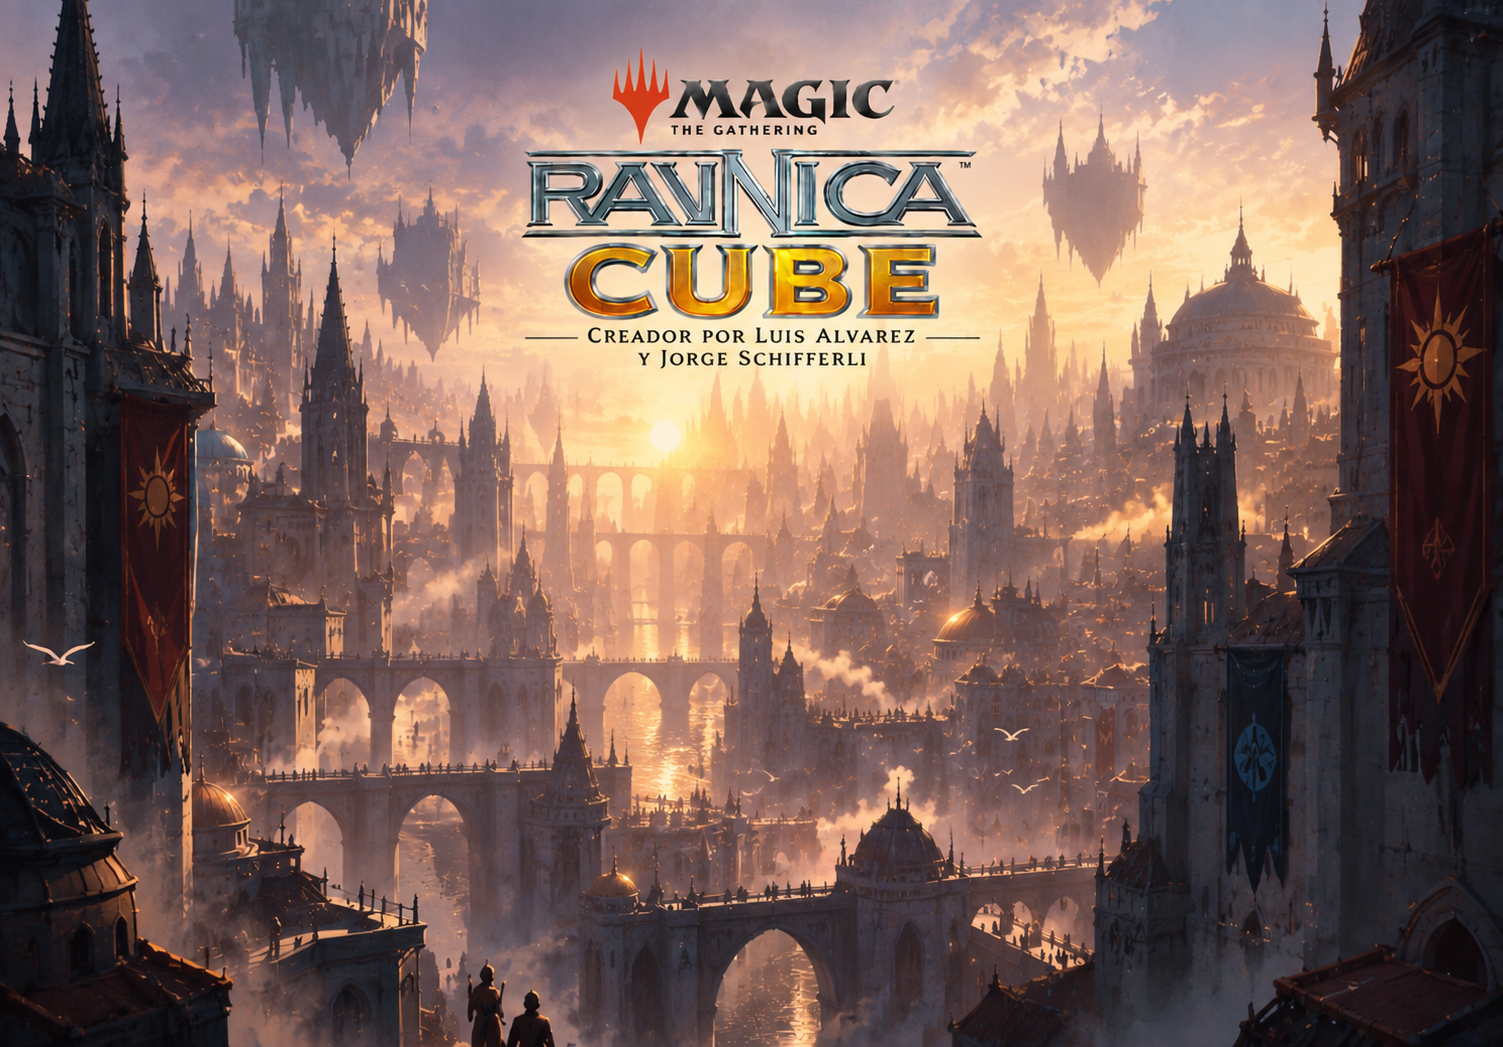
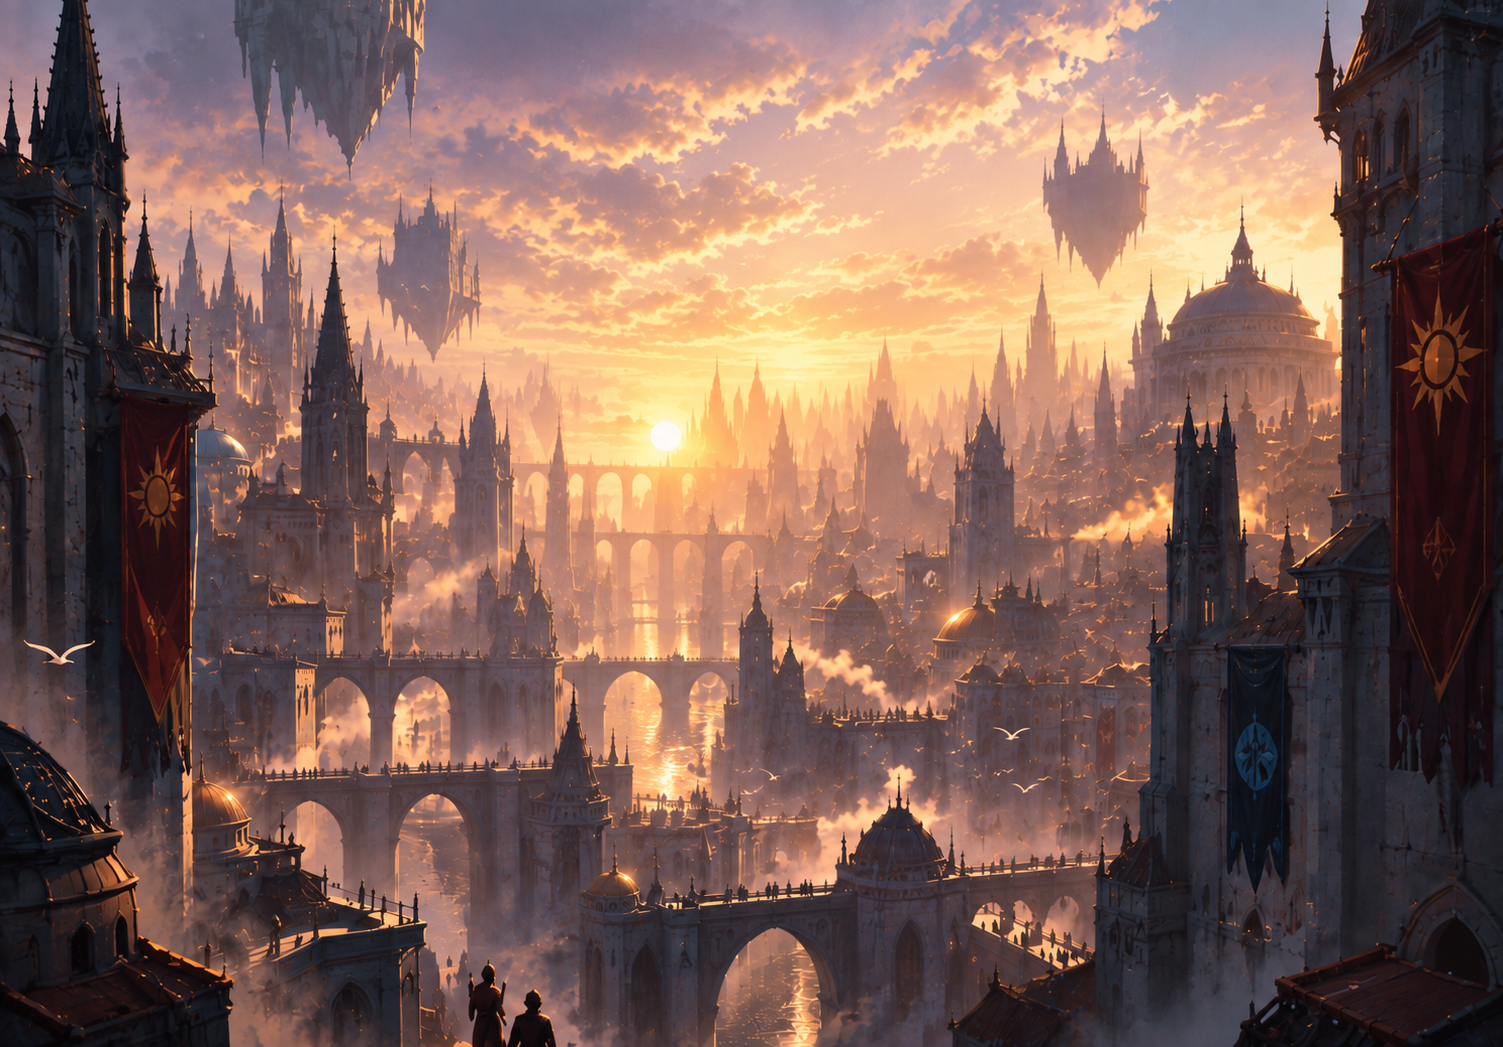
chore: apply latest user local fixes

diff --git a/client/src/index.css b/client/src/index.css
@@ -85,7 +85,12 @@ button { -webkit-tap-highlight-color: transparent; }
 .setup-connection { position:absolute; z-index:2; top:clamp(18px,3vw,34px); right:clamp(18px,3vw,34px); width:8px; height:8px; border-radius:999px; }
 .setup-connection.is-online { background:var(--cyan); box-shadow:0 0 14px rgba(131,217,210,.9); }
 .setup-connection.is-offline { background:var(--danger); box-shadow:0 0 14px rgba(255,118,109,.6); }
-.setup-layout { width:min(610px,100%); margin:0 auto; padding-top:clamp(330px,42vh,470px); }
+.setup-layout { width:min(640px,100%); margin:0 auto; padding-top:clamp(18px,3.5vh,38px); }
+.setup-title-art { width:min(620px,96vw); margin:0 auto clamp(12px,2.5vh,24px); display:grid; justify-items:center; gap:clamp(2px,1vh,9px); pointer-events:none; }
+.setup-magic-mark { width:min(320px,60vw); display:grid; place-items:center; filter:drop-shadow(0 10px 18px rgba(0,0,0,.36)); }
+.setup-magic-logo { display:block; width:100%; height:auto; mix-blend-mode:screen; }
+.setup-ravnica-mark { width:min(620px,96vw); aspect-ratio:1565 / 670; overflow:hidden; display:grid; place-items:center; mix-blend-mode:multiply; }
+.setup-ravnica-logo { display:block; width:100%; height:auto; transform:translateY(-33.8%); filter:drop-shadow(0 14px 20px rgba(0,0,0,.4)); }
 .setup-panel { min-width:0; }
 .deck-builder { height: 100dvh; width: min(1600px,100%); margin: 0 auto; padding: clamp(12px,2vw,28px); display: grid; grid-template-rows: auto minmax(0,1fr); gap: 12px; overflow: hidden; }
 .deck-toolbar { display: flex; align-items: center; justify-content: space-between; gap: 16px; }
@@ -112,6 +117,14 @@ button { -webkit-tap-highlight-color: transparent; }
 .land-summary-item b { overflow:hidden; font-size:12px; font-weight:650; text-overflow:ellipsis; white-space:nowrap; }
 .land-summary-item small { color:var(--muted); font-size:9px; letter-spacing:.08em; }
 .land-summary-item > strong { flex:0 0 auto; color:var(--gold-soft); font-size:16px; }
+.deck-tokens { margin-top:24px; padding-top:16px; border-top:1px solid var(--line); }
+.deck-tokens-heading { display:flex; align-items:center; justify-content:space-between; gap:12px; margin-bottom:10px; }
+.deck-tokens-heading h3 { margin:0; color:var(--paper); font-size:13px; font-weight:650; }
+.deck-tokens-heading strong { color:var(--cyan); font-size:13px; }
+.deck-token-grid { display:grid; grid-template-columns:repeat(2,minmax(0,1fr)); align-items:start; gap:14px 8px; }
+.deck-token-card { min-width:0; display:grid; justify-items:center; gap:7px; }
+.deck-token-card > div { width:100%; cursor:zoom-in; }
+.deck-token-card > span { width:100%; overflow:hidden; color:var(--muted); font-size:11px; text-align:center; text-overflow:ellipsis; white-space:nowrap; }
 .swap-conflict-shell { position: fixed; inset: 0; z-index: 60; display: grid; place-items: center; padding: clamp(10px,2vw,24px); background: rgba(3,5,4,.8); backdrop-filter: blur(18px) saturate(112%); }
 .swap-conflict-panel { position: relative; isolation: isolate; width: min(1080px,100%); max-height: calc(100dvh - 20px); display: grid; grid-template-rows: auto auto minmax(0,1fr) auto; overflow: hidden; border: 1px solid rgba(216,183,112,.24); border-radius: 22px; background: linear-gradient(145deg,rgba(15,21,18,.98),rgba(7,10,8,.98)); box-shadow: 0 36px 110px rgba(0,0,0,.62), inset 0 1px 0 rgba(255,255,255,.04); }
 .swap-conflict-panel::before { content:""; position:absolute; z-index:-1; inset:0; pointer-events:none; background: radial-gradient(circle at 10% 0%,rgba(216,183,112,.1),transparent 32%),radial-gradient(circle at 100% 30%,rgba(131,217,210,.06),transparent 34%); }
@@ -191,7 +204,10 @@ button { -webkit-tap-highlight-color: transparent; }
 @keyframes grain-step { 0%,100%{transform:translate(0,0)} 20%{transform:translate(-2%,1%)} 40%{transform:translate(1%,-2%)} 60%{transform:translate(2%,2%)} 80%{transform:translate(-1%,-1%)} }
 @media (max-width: 900px) {
   :root { --plaza-card-height:clamp(96px,14.2vh,126px); --golem-card-height:clamp(122px,18vh,160px); --plaza-stack-peek:clamp(26px,3.8vh,34px); }
-  .setup-layout { width:min(610px,100%); padding-top:clamp(300px,40vh,360px); }
+  .setup-layout { width:min(640px,100%); padding-top:clamp(14px,2.5vh,28px); }
+  .setup-title-art { width:min(560px,94vw); margin-bottom:clamp(10px,2vh,18px); }
+  .setup-magic-mark { width:min(290px,58vw); }
+  .setup-ravnica-mark { width:min(560px,94vw); }
   .draft-shell, .draft-board { min-height: 540px; }
   .plaza-table { grid-template-columns:1fr auto auto 1fr; align-items:start; gap:10px 26px; }
   .plaza-guilds { grid-column: 1/-1; grid-row: 1; }
@@ -204,7 +220,10 @@ button { -webkit-tap-highlight-color: transparent; }
 @media (max-width: 640px) {
   :root { --plaza-card-height:94px; --golem-card-height:122px; --plaza-stack-peek:27px; }
   .setup-screen { padding:18px 14px; }
-  .setup-layout { padding-top:clamp(286px,38vh,330px); }
+  .setup-layout { padding-top:10px; }
+  .setup-title-art { width:100%; margin-bottom:12px; gap:2px; }
+  .setup-magic-mark { width:min(250px,68vw); }
+  .setup-ravnica-mark { width:min(500px,100%); }
   .draft-shell, .draft-board { height: 100dvh; min-height: 0; }
   .draft-board { overflow: hidden !important; }
   .plaza-table { grid-template-columns:1fr auto auto 1fr; gap:7px 18px; }

diff --git a/client/src/utils/ravnicaTokens.js b/client/src/utils/ravnicaTokens.js
@@ -1,0 +1,87 @@
+export const RAVNICA_TOKENS = [
+  {
+    id: 'trvr-1', name: 'Bird', set: 'trvr', collector_number: '1',
+    type_line: 'Token Creature — Bird', oracle_text: 'Flying', power: '1', toughness: '1',
+    image_url: 'https://cards.scryfall.io/normal/front/f/b/fb446f25-40e4-4cd6-968c-8e22fe799203.jpg?1783913158',
+    requiredBy: ['Eyes in the Skies', 'Battle Screech']
+  },
+  {
+    id: 'trvr-5', name: 'Bird Illusion', set: 'trvr', collector_number: '5',
+    type_line: 'Token Creature — Bird Illusion', oracle_text: 'Flying', power: '1', toughness: '1',
+    image_url: 'https://cards.scryfall.io/normal/front/1/6/16bc1cfe-c2b2-416f-9691-94106cfbf98c.jpg?1783913157',
+    requiredBy: ['Murmuring Mystic']
+  },
+  {
+    id: 'trvr-10', name: 'Centaur', set: 'trvr', collector_number: '10',
+    type_line: 'Token Creature — Centaur', oracle_text: '', power: '3', toughness: '3',
+    image_url: 'https://cards.scryfall.io/normal/front/5/f/5f657b65-67fc-4b7d-bc9e-840190f69362.jpg?1783913155',
+    requiredBy: ['Call of the Conclave']
+  },
+  {
+    id: 'trvr-7', name: 'Dragon', set: 'trvr', collector_number: '7',
+    type_line: 'Token Creature — Dragon', oracle_text: 'Flying', power: '6', toughness: '6',
+    image_url: 'https://cards.scryfall.io/normal/front/a/f/af8209b4-f9db-4fff-b379-86f19669a82f.jpg?1783913156',
+    requiredBy: ['Utvara Hellkite']
+  },
+  {
+    id: 'trvr-15', name: 'Elf Knight', set: 'trvr', collector_number: '15',
+    type_line: 'Token Creature — Elf Knight', oracle_text: 'Vigilance', power: '2', toughness: '2',
+    image_url: 'https://cards.scryfall.io/normal/front/2/0/204b3adf-e76b-4ce9-b84d-b4e65b7054d4.jpg?1783913151',
+    requiredBy: ['Sprouting Renewal', 'Conclave Cavalier']
+  },
+  {
+    id: 'trvr-8', name: 'Goblin', set: 'trvr', collector_number: '8',
+    type_line: 'Token Creature — Goblin', oracle_text: '', power: '1', toughness: '1',
+    image_url: 'https://cards.scryfall.io/normal/front/5/9/59a207c7-0605-4c8d-a0fa-588bf8d8ada8.jpg?1783913155',
+    requiredBy: ['Legion Warboss', 'Krenko, Mob Boss']
+  },
+  {
+    id: 'trvr-9', name: 'Goblin', set: 'trvr', collector_number: '9',
+    type_line: 'Token Creature — Goblin', oracle_text: 'Haste', power: '2', toughness: '1',
+    image_url: 'https://cards.scryfall.io/normal/front/7/9/79707ef3-9ac8-4774-b34b-f227546ff4bd.jpg?1783913156',
+    requiredBy: ['Rakdos Guildmage']
+  },
+  {
+    id: 'tgrn-5', name: 'Insect', set: 'tgrn', collector_number: '5',
+    type_line: 'Token Creature — Insect', oracle_text: '', power: '1', toughness: '1',
+    image_url: 'https://cards.scryfall.io/normal/front/0/4/0436e71b-c1f9-4ca8-a29c-775da858a0cd.jpg?1783934061',
+    requiredBy: ['Izoni, Thousand-Eyed']
+  },
+  {
+    id: 'trvr-12', name: 'Saproling', set: 'trvr', collector_number: '12',
+    type_line: 'Token Creature — Saproling', oracle_text: '', power: '1', toughness: '1',
+    image_url: 'https://cards.scryfall.io/normal/front/0/b/0bf3d41e-cd0a-46bd-8b89-8855906ea6b5.jpg?1783913153',
+    requiredBy: ['Fists of Ironwood', 'Selesnya Evangel', 'Selesnya Guildmage', 'Vitu-Ghazi, the City-Tree']
+  },
+  {
+    id: 'tgrn-2', name: 'Soldier', set: 'tgrn', collector_number: '2',
+    type_line: 'Token Creature — Soldier', oracle_text: 'Lifelink', power: '1', toughness: '1',
+    image_url: 'https://cards.scryfall.io/normal/front/4/5/45907b16-af17-4237-ab38-9d7537fd30e8.jpg?1783934064',
+    requiredBy: ['March of the Multitudes']
+  },
+  {
+    id: 'trna-10', name: 'Spirit', set: 'trna', collector_number: '10',
+    type_line: 'Token Creature — Spirit', oracle_text: 'Flying', power: '1', toughness: '1',
+    image_url: 'https://cards.scryfall.io/normal/front/4/5/45b3bdd7-b093-4bfd-8a9a-965e72bfefb3.jpg?1783933602',
+    requiredBy: ['Ministrant of Obligation', 'Orzhov Enforcer', 'Seraph of the Scales']
+  },
+  {
+    id: 'trvr-4', name: 'Spirit', set: 'trvr', collector_number: '4',
+    type_line: 'Token Creature — Spirit', oracle_text: 'Flying', power: '1', toughness: '1',
+    image_url: 'https://cards.scryfall.io/normal/front/0/8/08c8ab9d-50c7-427d-a2ab-eebaa42842a3.jpg?1783913157',
+    requiredBy: ['Teysa, Orzhov Scion']
+  },
+  {
+    id: 'trvr-19', name: 'Voja', set: 'trvr', collector_number: '19',
+    type_line: 'Token Legendary Creature — Wolf', oracle_text: '', power: '2', toughness: '2',
+    image_url: 'https://cards.scryfall.io/normal/front/a/f/af8ba142-4f39-45e4-8872-b6e348fd760c.jpg?1783913148',
+    requiredBy: ['Tolsimir Wolfblood']
+  }
+];
+
+export function tokensForCards(cards = []) {
+  const cardNames = new Set(cards.map(card => card?.name).filter(Boolean));
+  return RAVNICA_TOKENS
+    .filter(token => token.requiredBy.some(name => cardNames.has(name)))
+    .map(({ requiredBy, ...token }) => ({ ...token, quantity: 1 }));
+}

diff --git a/client/src/utils/deck.js b/client/src/utils/deck.js
@@ -1,15 +1,18 @@
+import { tokensForCards } from './ravnicaTokens.js';
+
 export function buildDeck(picks, selectedIds, quantities, basicLands) {
   const selected = new Set(selectedIds);
   const main = picks.filter(card => selected.has(card.instanceId));
   const sideboard = picks.filter(card => !selected.has(card.instanceId));
   const lands = basicLands.map(card => ({ ...card, quantity: normalizeQuantity(quantities[card.id]) })).filter(card => card.quantity > 0);
-  return { main, sideboard, lands, count: main.length + lands.reduce((sum, card) => sum + card.quantity, 0) };
+  const tokens = tokensForCards(main);
+  return { main, sideboard, lands, tokens, count: main.length + lands.reduce((sum, card) => sum + card.quantity, 0) };
 }
 export function normalizeQuantity(value) {
   const number = Number(value);
   return Number.isSafeInteger(number) && number >= 0 ? number : 0;
 }
-export function deckText({ main, sideboard, lands }) {
+export function deckText({ main, sideboard, lands, tokens = [] }) {
   function lines(cards) {
     const counts = new Map();
     for (const card of cards) {
@@ -18,5 +21,6 @@ export function deckText({ main, sideboard, lands }) {
     }
     return [...counts].map(([name, count]) => `${count} ${name}`).join('\n');
   }
-  return `Deck\n${lines([...main, ...lands])}\n\nSideboard\n${lines(sideboard)}\n`;
+  const tokenSection = tokens.length ? `\n\nTokens\n${lines(tokens)}` : '';
+  return `Deck\n${lines([...main, ...lands])}\n\nSideboard\n${lines(sideboard)}${tokenSection}\n`;
 }

diff --git a/client/src/utils/deck.test.js b/client/src/utils/deck.test.js
@@ -19,3 +19,25 @@ test('invalid quantities and stale selection IDs cannot inflate deck count', () 
   for (const value of [-1,1.5,Infinity,NaN,'abc']) assert.equal(normalizeQuantity(value),0);
   assert.equal(buildDeck(picks,['missing'],{'gk1-100':-5},lands).count,0);
 });
+test('only tokens generated by cards in the main deck are included and they do not count toward forty', () => {
+  const tokenPicks = [
+    {instanceId:'warboss',name:'Legion Warboss'},
+    {instanceId:'rakdos',name:'Rakdos Guildmage'},
+    {instanceId:'sideboard',name:'March of the Multitudes'}
+  ];
+  const deck = buildDeck(tokenPicks, ['warboss','rakdos'], {'gk1-100':38}, lands);
+  assert.deepEqual(deck.tokens.map(token => token.id), ['trvr-8','trvr-9']);
+  assert.equal(deck.count, 40);
+  assert.match(deckText(deck), /Tokens\n1 Goblin \(trvr\) 8\n1 Goblin \(trvr\) 9\n$/);
+  assert.doesNotMatch(deckText(deck), /Soldier \(tgrn\) 2/);
+});
+test('shared token types are deduplicated while distinct Spirit printings remain separate', () => {
+  const tokenPicks = [
+    {instanceId:'eyes',name:'Eyes in the Skies'},
+    {instanceId:'screech',name:'Battle Screech'},
+    {instanceId:'afterlife',name:'Ministrant of Obligation'},
+    {instanceId:'teysa',name:'Teysa, Orzhov Scion'}
+  ];
+  const deck = buildDeck(tokenPicks, tokenPicks.map(card => card.instanceId), {}, lands);
+  assert.deepEqual(deck.tokens.map(token => token.id), ['trvr-1','trna-10','trvr-4']);
+});

diff --git a/client/src/components/AdminSetup.jsx b/client/src/components/AdminSetup.jsx
@@ -32,6 +32,15 @@ export function AdminSetup({ onCreateRoom, onJoinRoom, initialRoomId = '', isCon
       <div className="setup-layout">
         <h1 className="sr-only">Magic: The Gathering — Ravnica Cube. Creado por Luis Alvarez y Jorge Schifferli</h1>
 
+        <div className="setup-title-art" aria-hidden="true">
+          <div className="setup-magic-mark">
+            <img src="/magic-the-gathering-logo.webp" alt="" className="setup-magic-logo" />
+          </div>
+          <div className="setup-ravnica-mark">
+            <img src="/ravnica-cube-title.png" alt="" className="setup-ravnica-logo" />
+          </div>
+        </div>
+
         <div className="setup-panel rounded-[28px] border border-white/10 bg-[#0d110f]/92 p-3 shadow-[0_36px_100px_rgba(0,0,0,.62)] backdrop-blur-2xl sm:p-4">
           <div className="mb-3 grid grid-cols-2 rounded-2xl bg-black/25 p-1" role="tablist">
             {[['create', Plus, 'Crear'], ['join', LogIn, 'Entrar']].map(([value, Icon, label]) => (

diff --git a/client/src/components/DeckBuilder.jsx b/client/src/components/DeckBuilder.jsx
@@ -52,6 +52,14 @@ export function DeckBuilder({ picks, storageKey, onHoverStart, onHoverEnd }) {
             <span><b>{LAND_NAMES[card.name]}</b><small>{card.set.toUpperCase()} · {card.collector_number}</small></span><strong>{card.quantity}</strong>
           </button>)}</div>
         </section>}
+
+        {deck.tokens.length > 0 && <section className="deck-tokens" aria-label="Tokens incluidos automáticamente">
+          <div className="deck-tokens-heading"><h3>Tokens</h3><strong>{deck.tokens.length}</strong></div>
+          <div className="deck-token-grid">{deck.tokens.map(token => <article className="deck-token-card" key={token.id}>
+            <Card card={token} size="deck" onHoverStart={onHoverStart} onHoverEnd={onHoverEnd} />
+            <span>{token.name}</span>
+          </article>)}</div>
+        </section>}
       </aside>
     </div>
   </div>;
